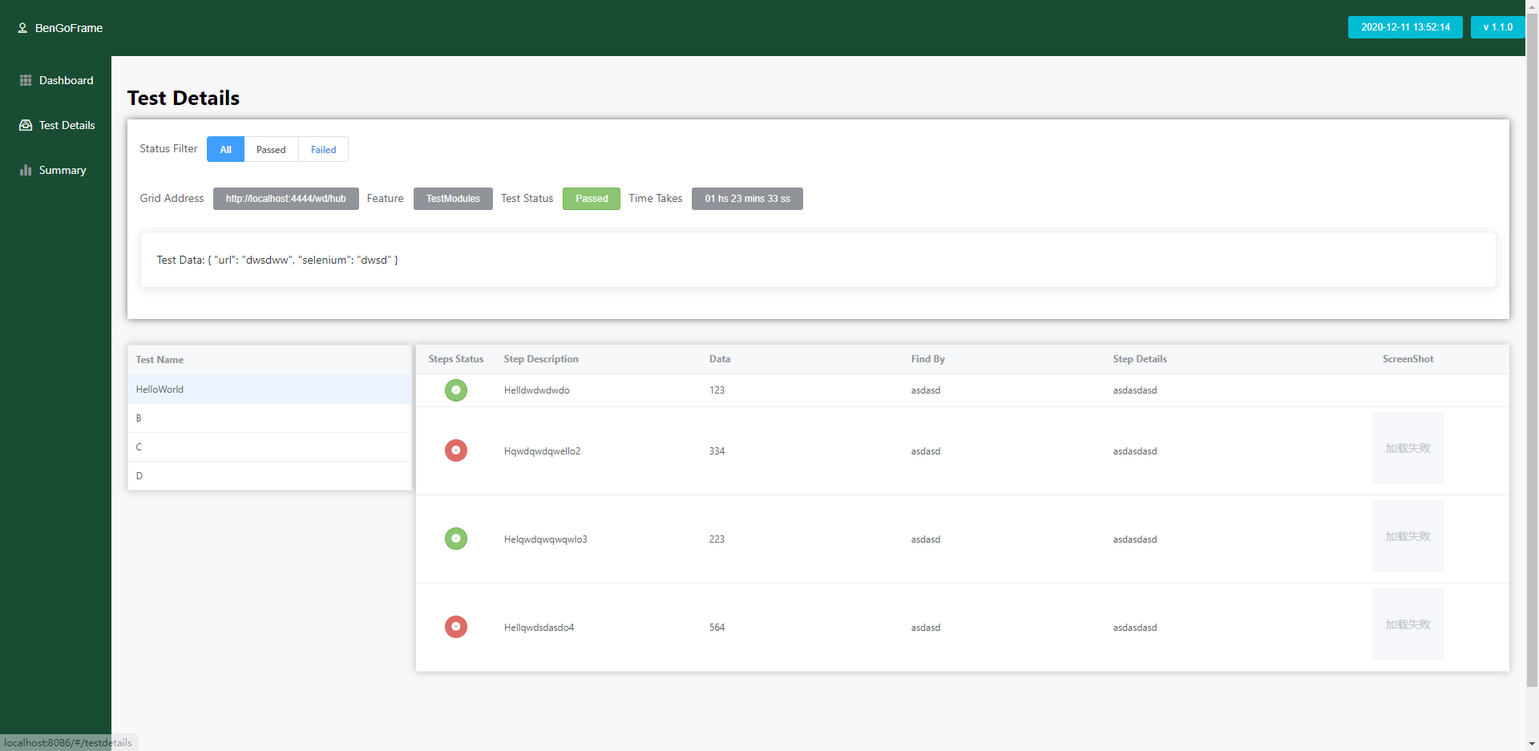
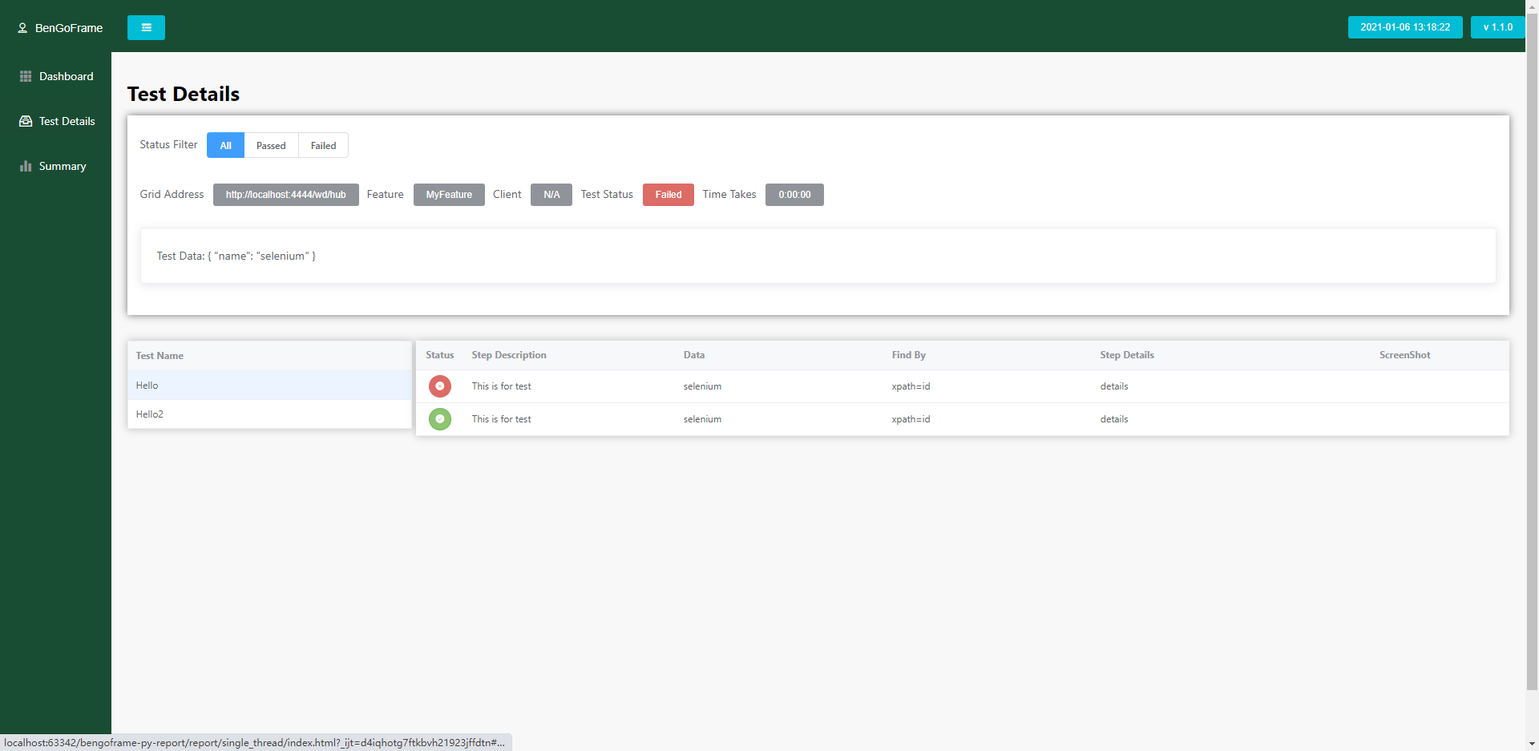
优化header，为api details table增加伸缩功能

diff --git a/src/template/static/js/app.20a00e79.js b/src/template/static/js/app.20a00e79.js
@@ -1,0 +1,1 @@
+(function(t){function e(e){for(var s,i,n=e[0],o=e[1],c=e[2],d=0,f=[];d<n.length;d++)i=n[d],Object.prototype.hasOwnProperty.call(l,i)&&l[i]&&f.push(l[i][0]),l[i]=0;for(s in o)Object.prototype.hasOwnProperty.call(o,s)&&(t[s]=o[s]);u&&u(e);while(f.length)f.shift()();return r.push.apply(r,c||[]),a()}function a(){for(var t,e=0;e<r.length;e++){for(var a=r[e],s=!0,n=1;n<a.length;n++){var o=a[n];0!==l[o]&&(s=!1)}s&&(r.splice(e--,1),t=i(i.s=a[0]))}return t}var s={},l={app:0},r=[];function i(e){if(s[e])return s[e].exports;var a=s[e]={i:e,l:!1,exports:{}};return t[e].call(a.exports,a,a.exports,i),a.l=!0,a.exports}i.m=t,i.c=s,i.d=function(t,e,a){i.o(t,e)||Object.defineProperty(t,e,{enumerable:!0,get:a})},i.r=function(t){"undefined"!==typeof Symbol&&Symbol.toStringTag&&Object.defineProperty(t,Symbol.toStringTag,{value:"Module"}),Object.defineProperty(t,"__esModule",{value:!0})},i.t=function(t,e){if(1&e&&(t=i(t)),8&e)return t;if(4&e&&"object"===typeof t&&t&&t.__esModule)return t;var a=Object.create(null);if(i.r(a),Object.defineProperty(a,"default",{enumerable:!0,value:t}),2&e&&"string"!=typeof t)for(var s in t)i.d(a,s,function(e){return t[e]}.bind(null,s));return a},i.n=function(t){var e=t&&t.__esModule?function(){return t["default"]}:function(){return t};return i.d(e,"a",e),e},i.o=function(t,e){return Object.prototype.hasOwnProperty.call(t,e)},i.p="";var n=window["webpackJsonp"]=window["webpackJsonp"]||[],o=n.push.bind(n);n.push=e,n=n.slice();for(var c=0;c<n.length;c++)e(n[c]);var u=o;r.push([0,"chunk-vendors"]),a()})({0:function(t,e,a){t.exports=a("56d7")},"0220":function(t,e,a){"use strict";a("6d76")},"09b1b":function(t,e,a){"use strict";a("24a7")},"09e0":function(t,e,a){},"24a7":function(t,e,a){},"2a8b":function(t,e,a){"use strict";a("5498")},"2b56":function(t,e,a){"use strict";a("09e0")},"50fd":function(t,e,a){},5498:function(t,e,a){},"56d7":function(t,e,a){"use strict";a.r(e);a("e260"),a("e6cf"),a("cca6"),a("a79d");var s=a("2b0e"),l=function(){var t=this,e=t.$createElement,a=t._self._c||e;return a("div",{attrs:{id:"app"}},[a("router-view")],1)},r=[],i={},n=i,o=a("2877"),c=Object(o["a"])(n,l,r,!1,null,null,null),u=c.exports,d=(a("d3b7"),a("8c4f")),f=function(){var t=this,e=t.$createElement,a=t._self._c||e;return a("div",{staticClass:"main-container"},[a("header",[a("TopMenu",{on:{changeAside:t.setIcon}})],1),a("el-container",{staticClass:"main-app"},[a("el-aside",{attrs:{width:"150px;"}},[a("el-menu",{staticClass:"el-menu-vertical",attrs:{"default-active":t.activeIndex,"background-color":"#194d33","text-color":"#fff","active-text-color":"#fff"}},[a("router-link",{attrs:{to:"/"}},[a("el-menu-item",{attrs:{index:"1"}},[a("i",{staticClass:"el-icon-s-grid"}),a("span",{directives:[{name:"show",rawName:"v-show",value:t.isShow,expression:"isShow"}],attrs:{slot:"title"},slot:"title"},[t._v("Dashboard")])])],1),t.isApi?a("router-link",{attrs:{to:"apitestdetails"}},[a("el-menu-item",{attrs:{index:"2"}},[a("i",{staticClass:"el-icon-receiving"}),a("span",{directives:[{name:"show",rawName:"v-show",value:t.isShow,expression:"isShow"}],attrs:{slot:"title"},slot:"title"},[t._v("API Details")])])],1):a("router-link",{attrs:{to:"testdetails"}},[a("el-menu-item",{attrs:{index:"2"}},[a("i",{staticClass:"el-icon-receiving"}),a("span",{directives:[{name:"show",rawName:"v-show",value:t.isShow,expression:"isShow"}],attrs:{slot:"title"},slot:"title"},[t._v("Test Details")])])],1),a("router-link",{attrs:{to:"/summary"}},[a("el-menu-item",{attrs:{index:"3"}},[a("i",{staticClass:"el-icon-s-data"}),a("span",{directives:[{name:"show",rawName:"v-show",value:t.isShow,expression:"isShow"}],attrs:{slot:"title"},slot:"title"},[t._v("Summary")])])],1)],1)],1),a("el-main",{staticClass:"main-details"},[a("router-view",{key:t.key})],1)],1)],1)},h=[],p=(a("c975"),function(){var t=this,e=t.$createElement,a=t._self._c||e;return a("div",{staticClass:"top-menu"},[a("el-button",{staticClass:"iconBtn",attrs:{id:"iconBtn1",icon:"el-icon-coordinate",type:"info"},on:{click:function(e){return t.onHome(e)}}},[t._v(" BenGoFrame")]),a("el-button",{staticClass:"openBtn",attrs:{type:"info",size:"mini",icon:t.openBtn,id:"openBtn1"},on:{click:function(e){return t.onSwitch("openBtn1")}}}),a("el-button",{staticClass:"timeBtn",attrs:{id:"timeBtn1",type:"info",size:"mini"},on:{click:function(e){return t.onBlurBtn("timeBtn1")}}},[t._v("v 1.1.0")]),a("el-button",{staticClass:"versionBtn",attrs:{id:"versionBtn1",type:"info",size:"mini"},on:{click:function(e){return t.onBlurBtn("versionBtn1")}}},[t._v(t._s(t.date))])],1)}),b=[],m=(a("b0c0"),a("ac1f"),a("5319"),{name:"TopMenu",data:function(){return{date:"",openBtn:"el-icon-s-fold"}},methods:{cuurent_date:function(){var t=(new Date).toISOString().replace(/T/," ").replace(/\..+/,"");this.date=t},onHome:function(t){this.onBlurBtn("iconBtn1"),"DashBoard"!==this.$route.name&&this.$router.push({name:"DashBoard"})},onBlurBtn:function(t){document.getElementById(t).blur()},onSwitch:function(t){this.onBlurBtn(t),"el-icon-s-fold"===this.openBtn?(this.$emit("changeAside","close"),this.openBtn="el-icon-s-unfold"):(this.$emit("changeAside","open"),this.openBtn="el-icon-s-fold")}},created:function(){this.cuurent_date()}}),C=m,v=(a("0220"),Object(o["a"])(C,p,b,!1,null,null,null)),g=v.exports,y=a("7277"),S=a("7397"),w=a("ad13"),T=a("8d0f"),_={name:"TestReport",components:{TopMenu:g,Dashboard:y["default"],TestDetails:S["default"],Summary:w["default"],ApiTestDetails:T["default"]},created:function(){this.setActiveAside(),this.testAll=this.$testData;var t=this.testAll["testDetails"][0]["client"];"api"===t.toLowerCase()&&(this.isApi=!0)},methods:{setActiveAside:function(){var t=this.key;-1!=t.indexOf("dashboard")?this.activeIndex="1":-1!=t.indexOf("testdetails")?this.activeIndex="2":this.activeIndex},setIcon:function(t){this.isShow="close"!==t}},computed:{key:function(){return this.$route.fullPath}},data:function(){return{activeIndex:"1",isApi:!1,testAll:{},isShow:!0}}},D=_,N=(a("b3a7"),Object(o["a"])(D,f,h,!1,null,null,null)),A=N.exports;s["default"].use(d["a"]);var k=[{path:"/",name:"TestReport",redirect:"/dashboard",component:A,children:[{path:"dashboard",name:"DashBoard",component:function(){return Promise.resolve().then(a.bind(null,"7277"))}},{path:"testdetails",name:"TestDetails",component:function(){return Promise.resolve().then(a.bind(null,"7397"))}},{path:"apitestdetails",name:"ApiTestDetails",component:function(){return Promise.resolve().then(a.bind(null,"8d0f"))}},{path:"summary",name:"Summary",component:function(){return Promise.resolve().then(a.bind(null,"ad13"))}}]}],x=new d["a"]({mode:"hash",base:"",routes:k}),B=x,z=a("5c96"),R=a.n(z);a("0fae");s["default"].config.productionTip=!1;var P=window.testData;s["default"].prototype.$testData=P,s["default"].use(R.a),new s["default"]({router:B,render:function(t){return t(u)}}).$mount("#app")},"6d76":function(t,e,a){},7277:function(t,e,a){"use strict";a.r(e);var s=function(){var t=this,e=t.$createElement,a=t._self._c||e;return a("div",{staticClass:"dashboard"},[a("h5",[t._v("Dashboard")]),a("el-row",{staticClass:"reportChart",attrs:{gutter:10}},[a("el-col",{attrs:{span:12}},[a("div",{staticClass:"wrapper"},[a("el-form",{attrs:{inline:!0,"label-position":"left"},nativeOn:{submit:function(t){t.preventDefault()}}},[a("el-form-item",[a("el-button",{attrs:{type:"info",size:"mini"}},[t._v("Total Cases: "+t._s(t.totalCases))]),a("el-button",{staticStyle:{background:"#63af3eba",color:"#fff","border-color":"#63af3eba"},attrs:{size:"mini"}},[t._v("Passed: "+t._s(t.totalPassed))]),a("el-button",{staticStyle:{background:"#dd6b66",color:"#fff","border-color":"#dd6b66"},attrs:{size:"mini"}},[t._v("Failed: "+t._s(t.totalFailed))])],1),a("ReportChart",{ref:"reportChart"})],1)],1)]),a("el-col",{staticClass:"stepsReportChart",attrs:{span:12}},[a("div",{staticClass:"wrapper"},[a("el-form",{attrs:{inline:!0,"label-position":"left"},nativeOn:{submit:function(t){t.preventDefault()}}},[a("el-form-item",[a("el-button",{attrs:{type:"info",size:"mini"}},[t._v("Total Steps: "+t._s(t.totalSteps))]),a("el-button",{staticStyle:{background:"#63af3eba",color:"#fff","border-color":"#63af3eba"},attrs:{size:"mini"}},[t._v("Passed: "+t._s(t.totalStepsPassed))]),a("el-button",{staticStyle:{background:"#dd6b66",color:"#fff","border-color":"#dd6b66"},attrs:{size:"mini"}},[t._v("Failed: "+t._s(t.totalStepsFailed))])],1),a("StepReportChart",{ref:"stepReportChart"})],1)],1)])],1),a("el-row",[a("el-col",{staticClass:"runConfig",attrs:{span:24}},[a("el-table",{staticClass:"allTable",attrs:{data:t.config,border:"","header-cell-style":{background:"rgba(234,238,241,.41)","line-height":"20px"},size:"mini"}},[a("el-table-column",{attrs:{label:"Test Suite",prop:"testSuite"}}),a("el-table-column",{attrs:{label:"Grid Address",prop:"gridAddress"}}),a("el-table-column",{attrs:{label:"Log Level",prop:"logLevel"}}),a("el-table-column",{attrs:{label:"Thread Count",prop:"threadCount"}}),a("el-table-column",{attrs:{label:"Database",prop:"database"}}),a("el-table-column",{attrs:{label:"Start Time",prop:"startTime"}}),a("el-table-column",{attrs:{label:"End Time",prop:"endTime"}}),a("el-table-column",{attrs:{label:"Time Takes",prop:"takeTimes"}}),a("el-table-column",{attrs:{label:"ReRun",prop:"reRun",width:"70",align:"center"}})],1)],1)],1),a("el-row",[a("el-col",{staticClass:"featureSummary",attrs:{span:24}},[a("el-table",{staticClass:"allTable",attrs:{data:t.featureSummary,border:"",size:"mini","header-cell-style":{background:"rgba(234,238,241,.41)","line-height":"20px"}}},[a("el-table-column",{attrs:{label:"Feature Name",prop:"featureName"}}),a("el-table-column",{attrs:{label:"Total",prop:"total"}}),a("el-table-column",{attrs:{label:"Passed",prop:"passed"}}),a("el-table-column",{attrs:{label:"Failed",prop:"failed"}}),a("el-table-column",{attrs:{label:"Pass Rate",prop:"passRate"}})],1)],1)],1)],1)},l=[],r=(a("4ec9"),a("d3b7"),a("3ca3"),a("ddb0"),a("2909")),i=a("b85c"),n=function(){var t=this,e=t.$createElement,a=t._self._c||e;return a("div",{class:t.className,style:{height:t.height,width:t.width}})},o=[],c=a("313e"),u=a.n(c);a("817d");var d={name:"ReportChart",props:{className:{type:String,default:"chart"},width:{type:String,default:"100%"},height:{type:String,default:"325px"}},data:function(){return{chart:null,totalCase:"0",passedCount:0,failedCount:0}},mounted:function(){var t=this;this.initChart(),window.addEventListener("resize",(function(){t.chart.resize()}))},methods:{initChart:function(){this.chart=u.a.init(this.$el,"macarons"),this.chart.setOption({label:{},tooltip:{trigger:"item",showDelay:0,formatter:"{a} <br/>{b} : {c} ({d}%)"},legend:{left:"center",bottom:"5",data:["Passed","Failed"]},calculable:!0,series:[{label:{normal:{show:!1}},color:["#63af3eba","#dd6b66"],name:"Tests Passed Rate",type:"pie",data:[{value:this.passedCount,name:"Passed"},{value:this.failedCount,name:"Failed"}],animationEasing:"cubicInOut",animationDuration:2600}]})},setChart:function(t,e,a){this.chart.clear(),this.totalCase=t,this.passedCount=e,this.failedCount=a,this.initChart()}}},f=d,h=(a("ac98"),a("2877")),p=Object(h["a"])(f,n,o,!1,null,null,null),b=p.exports,m=function(){var t=this,e=t.$createElement,a=t._self._c||e;return a("div",{class:t.className,style:{height:t.height,width:t.width}})},C=[];a("817d");var v={name:"StepsReportChart",props:{className:{type:String,default:"chart"},width:{type:String,default:"100%"},height:{type:String,default:"325px"}},data:function(){return{chart:null,totalCase:"0",passedCount:0,failedCount:0}},mounted:function(){var t=this;this.initChart(),window.addEventListener("resize",(function(){t.chart.resize()}))},methods:{initChart:function(){this.chart=u.a.init(this.$el,"macarons"),this.chart.setOption({label:{},tooltip:{trigger:"item",formatter:"{a} <br/>{b} : {c} ({d}%)"},legend:{left:"center",bottom:"5",data:["Passed","Failed"]},calculable:!0,series:[{label:{normal:{show:!1}},color:["#63af3eba","#dd6b66"],name:"Steps Passed Rate",type:"pie",data:[{value:this.passedCount,name:"Passed"},{value:this.failedCount,name:"Failed"}],animationEasing:"cubicInOut",animationDuration:2600}]})},setChart:function(t,e,a){this.chart.clear(),this.totalCase=t,this.passedCount=e,this.failedCount=a,this.initChart()}}},g=v,y=(a("2a8b"),Object(h["a"])(g,m,C,!1,null,null,null)),S=y.exports,w={name:"Dashboard",components:{ReportChart:b,StepReportChart:S},data:function(){return{testAll:{},config:[],featureSummary:[],totalCases:"0",totalPassed:"0",totalFailed:"0",totalSteps:"0",totalStepsPassed:"0",totalStepsFailed:"0"}},mounted:function(){this.testAll=this.$testData,this.initTestData()},methods:{setCharts:function(){this.$refs.reportChart.setChart(this.totalCases,this.totalPassed,this.totalFailed),this.$refs.stepReportChart.setChart(this.totalSteps,this.totalStepsPassed,this.totalStepsFailed)},initTestData:function(){this.config=[this.testAll["testConfig"]],this.totalCases=this.testAll["casesChart"]["totalCases"],this.totalPassed=this.testAll["casesChart"]["passed"],this.totalFailed=this.testAll["casesChart"]["failed"],this.totalSteps=this.testAll["stepsChart"]["totalSteps"],this.totalStepsPassed=this.testAll["stepsChart"]["passed"],this.totalStepsFailed=this.testAll["stepsChart"]["failed"],this.featureSummary=this.testAll["featureSummary"];var t,e=new Map,a=Object(i["a"])(this.featureSummary);try{for(a.s();!(t=a.n()).done;){var s=t.value,l=s.featureName;e.has(l)||e.set(l,s)}}catch(n){a.e(n)}finally{a.f()}this.featureSummary=Object(r["a"])(e.values()),this.setCharts()}}},T=w,_=(a("2b56"),Object(h["a"])(T,s,l,!1,null,null,null));e["default"]=_.exports},7397:function(t,e,a){"use strict";a.r(e);var s=function(){var t=this,e=t.$createElement,a=t._self._c||e;return a("div",{staticClass:"testDetails"},[a("h5",[t._v("Test Details")]),a("el-row",[a("el-col",{attrs:{span:24}},[a("div",{staticClass:"wrapper"},[a("el-form",{staticClass:"status",attrs:{inline:!0}},[a("el-form-item",{attrs:{label:"Status Filter"}},[a("el-radio-group",{attrs:{size:"small",fill:t.fill()},model:{value:t.radio,callback:function(e){t.radio=e},expression:"radio"}},[a("el-radio-button",{attrs:{label:"all"}},[t._v("All")]),a("el-radio-button",{attrs:{label:"passed"}},[t._v("Passed")]),a("el-radio-button",{attrs:{label:"failed"}},[t._v("Failed")])],1)],1)],1),t.caseNames.length>0?a("el-form",{staticClass:"testConfig",attrs:{inline:!0}},[a("el-form-item",{attrs:{label:"Grid Address"}},[a("el-button",{attrs:{type:"info",size:"mini"}},[t._v(t._s(t.config["gridAddress"]))])],1),a("el-form-item",{attrs:{label:"Feature"}},[a("el-button",{attrs:{type:"info",size:"mini"}},[t._v(t._s(t.currentCase["featureName"]))])],1),a("el-form-item",{attrs:{label:"Client"}},[a("el-button",{attrs:{type:"info",size:"mini"}},[t._v(t._s(t.currentCase["client"]))])],1),a("el-form-item",{attrs:{label:"Test Status"}},["passed"===t.currentCase.status?a("el-button",{staticStyle:{background:"#63af3eba",color:"#fff","border-color":"#63af3eba"},attrs:{size:"mini"}},[t._v(t._s(t.toTitle(t.currentCase["status"])))]):a("el-button",{staticStyle:{background:"#dd6b66",color:"#fff","border-color":"#dd6b66"},attrs:{size:"mini"}},[t._v(t._s(t.toTitle(t.currentCase["status"])))])],1),a("el-form-item",{attrs:{label:"Time Takes"}},[a("el-button",{attrs:{type:"info",size:"mini"}},[t._v(t._s(t.currentCase["timeTakes"]))])],1)],1):t._e(),t.caseNames.length>0?a("el-form",{staticClass:"testData",attrs:{size:"mini"}},[a("el-form-item",[a("el-card",[a("span",{staticStyle:{"font-size":"14px",color:"#606266"}},[t._v("Test Data: ")]),a("span",{staticStyle:{"font-size":"14px",color:"#606266"}},[t._v(t._s(t.currentCase["datas"]))])])],1)],1):t._e(),a("br")],1)])],1),a("el-row",{staticClass:"details-table",attrs:{gutter:5}},[a("el-col",{attrs:{span:5}},[a("el-table",{ref:"testTable",staticClass:"change",attrs:{data:t.caseNames,size:"mini",border:"","highlight-current-row":"","header-cell-style":{background:"rgba(234,238,241,.41)","line-height":"20px"}},on:{"current-change":t.handleCurrentChange}},[a("el-table-column",{attrs:{label:"Test Name",prop:"testName"}})],1)],1),a("el-col",{attrs:{span:19}},[a("el-table",{staticClass:"change",attrs:{data:t.currentSteps,size:"mini","header-cell-style":{background:"rgba(234,238,241,.41)","line-height":"20px"}}},[a("el-table-column",{attrs:{label:"Status",align:"center",width:"60"},scopedSlots:t._u([{key:"default",fn:function(t){return["passed"===t.row.stepStatus?a("el-button",{staticStyle:{background:"#63af3eba",color:"#fff","border-color":"#63af3eba"},attrs:{size:"mini",circle:"",icon:"el-icon-success"}}):a("el-button",{staticStyle:{background:"#dd6b66",color:"#fff","border-color":"#dd6b66"},attrs:{size:"mini",circle:"",icon:"el-icon-error"}})]}}])}),a("el-table-column",{attrs:{label:"Step Description",prop:"stepDescription"}}),a("el-table-column",{attrs:{label:"Data",prop:"data"}}),a("el-table-column",{attrs:{label:"Find By",prop:"findBy"}}),a("el-table-column",{attrs:{label:"Step Details",prop:"stepDetails"}}),a("el-table-column",{attrs:{label:"ScreenShot",prop:"screenShot",align:"center"},scopedSlots:t._u([{key:"default",fn:function(e){return[e.row.screenShot?a("el-image",{staticClass:"screenshot-test",staticStyle:{width:"90px",height:"90px"},attrs:{src:t.buildImage(e.row.screenShot),"preview-src-list":[t.buildImage(e.row.screenShot)]}}):a("span",{staticClass:"none-screenshot"})]}}])})],1)],1)],1)],1)},l=[],r=(a("4de4"),a("d81d"),a("fb6a"),{name:"TestDetails",data:function(){return{caseNames:[],currentSteps:[],radio:"all",currentRow:null,testAll:{},config:{},currentCase:{},testDetailsAll:[]}},created:function(){this.testAll=this.$testData,this.config=this.testAll["testConfig"],this.testDetailsAll=this.testAll["testDetails"],this.initTestDetails(this.testDetailsAll)},methods:{fill:function(){return"passed"===this.radio?"#63af3eba":"failed"===this.radio?"#dd6b66":void 0},toTitle:function(t){if(t)return t=t.charAt(0).toUpperCase()+t.slice(1),t},initTestDetails:function(t){this.caseNames=t.map((function(t){return{testName:t["testName"]}}));var e=this.caseNames[0]["testName"];this.setCurrentTestByName(e)},buildImage:function(t){return"static/img/"+t},setCurrentTestByName:function(t){var e=this.testDetailsAll.filter((function(e){var a=e["testName"];if(a==t)return e}));this.currentCase=e[0],this.currentSteps=this.currentCase["steps"]},setCurrentTestByStatus:function(t){var e=this.testDetailsAll.filter((function(e){var a=e["status"];if(t==a)return e}));e.length>0?this.initTestDetails(e):(this.caseNames=[],this.currentCase=[],this.currentSteps=[])},handleCurrentChange:function(t){t?(this.currentRow=t,this.setCurrentRow(t)):this.$refs.testTable.setCurrentRow(this.caseNames[0])},setCurrentRow:function(t){this.setCurrentTestByName(t["testName"]),this.$refs.testTable.setCurrentRow(t)}},mounted:function(){this.$refs.testTable.setCurrentRow(this.caseNames[0])},watch:{radio:function(t){"passed"===t?this.setCurrentTestByStatus("passed"):"failed"===t?this.setCurrentTestByStatus("failed"):this.initTestDetails(this.testDetailsAll)}}}),i=r,n=(a("d565"),a("2877")),o=Object(n["a"])(i,s,l,!1,null,null,null);e["default"]=o.exports},"8d0f":function(t,e,a){"use strict";a.r(e);var s=function(){var t=this,e=t.$createElement,a=t._self._c||e;return a("div",{staticClass:"ApiTestDetails"},[a("h5",[t._v("API Test Details")]),a("el-row",[a("el-col",{attrs:{span:24}},[a("div",{staticClass:"wrapper"},[a("el-form",{staticClass:"status",attrs:{inline:!0}},[a("el-form-item",{attrs:{label:"Status Filter"}},[a("el-radio-group",{attrs:{size:"small",fill:t.fill()},model:{value:t.radio,callback:function(e){t.radio=e},expression:"radio"}},[a("el-radio-button",{attrs:{label:"all"}},[t._v("All")]),a("el-radio-button",{attrs:{label:"passed"}},[t._v("Passed")]),a("el-radio-button",{attrs:{label:"failed"}},[t._v("Failed")])],1)],1)],1),t.caseNames.length>0?a("el-form",{staticClass:"testConfig",attrs:{inline:!0}},[a("el-form-item",{attrs:{label:"Feature"}},[a("el-button",{attrs:{type:"info",size:"mini"}},[t._v(t._s(t.currentCase["featureName"]))])],1),a("el-form-item",{attrs:{label:"Client"}},[a("el-button",{attrs:{type:"info",size:"mini"}},[t._v(t._s(t.currentCase["client"].toUpperCase()))])],1),a("el-form-item",{attrs:{label:"Test Status"}},["passed"===t.currentCase.status?a("el-button",{staticStyle:{background:"#63af3eba",color:"#fff","border-color":"#63af3eba"},attrs:{size:"mini"}},[t._v(t._s(t.toTitle(t.currentCase["status"])))]):a("el-button",{staticStyle:{background:"#dd6b66",color:"#fff","border-color":"#dd6b66"},attrs:{size:"mini"}},[t._v(t._s(t.toTitle(t.currentCase["status"])))])],1),a("el-form-item",{attrs:{label:"Time Takes"}},[a("el-button",{attrs:{type:"info",size:"mini"}},[t._v(t._s(t.currentCase["timeTakes"]))])],1)],1):t._e(),t.caseNames.length>0?a("el-form",{staticClass:"testData",attrs:{size:"mini"}},[a("el-form-item",[a("el-card",[a("span",{staticStyle:{"font-size":"14px",color:"#606266"}},[t._v("Test Data: ")]),a("span",{staticStyle:{"font-size":"14px",color:"#606266"}},[t._v(t._s(t.currentCase["datas"]))])])],1)],1):t._e(),t.caseNames.length>0?a("el-table",{staticClass:"fixStyle",attrs:{data:t.requestDetails,border:"","header-cell-style":{background:"rgba(234,238,241,.41)"},size:"mini"}},[a("el-table-column",{attrs:{type:"expand"},scopedSlots:t._u([{key:"default",fn:function(e){return[a("el-table",{staticClass:"fixStyle",attrs:{data:t.reList(e.row),size:"mini",border:"","header-cell-style":{background:"rgba(234,238,241,.41)"}}},[a("el-table-column",{attrs:{label:"Request Body",prop:"body"}}),a("el-table-column",{attrs:{label:"Request Header",prop:"header"}}),a("el-table-column",{attrs:{label:"Response Header",prop:"responseHeader"}}),a("el-table-column",{attrs:{label:"Response Body",prop:"responseBody"}})],1)]}}],null,!1,3198013413)}),a("el-table-column",{attrs:{label:"Method",width:"80",prop:"method",align:"center"}}),a("el-table-column",{attrs:{label:"Request Url",prop:"url"}}),a("el-table-column",{attrs:{label:"Response Status Code",prop:"statusCode",width:"250",align:"center"}})],1):t._e(),a("br")],1)])],1),a("el-row",{staticClass:"details-table",attrs:{gutter:5}},[a("el-col",{attrs:{span:5}},[a("el-table",{ref:"apiTestTable",staticClass:"change",attrs:{data:t.caseNames,size:"mini",border:"","highlight-current-row":"","header-cell-style":{background:"rgba(234,238,241,.41)","line-height":"20px"}},on:{"current-change":t.handleCurrentChange}},[a("el-table-column",{attrs:{label:"Test Name",prop:"testName"}})],1)],1),a("el-col",{attrs:{span:19}},[a("el-table",{staticClass:"change",attrs:{data:t.currentSteps,size:"mini","header-cell-style":{background:"rgba(234,238,241,.41)","line-height":"20px"}}},[a("el-table-column",{attrs:{label:"Status",align:"center",width:"60"},scopedSlots:t._u([{key:"default",fn:function(t){return["passed"===t.row.stepStatus?a("el-button",{staticStyle:{background:"#63af3eba",color:"#fff","border-color":"#63af3eba"},attrs:{size:"mini",circle:"",icon:"el-icon-success"}}):a("el-button",{staticStyle:{background:"#dd6b66",color:"#fff","border-color":"#dd6b66"},attrs:{size:"mini",circle:"",icon:"el-icon-error"}})]}}])}),a("el-table-column",{attrs:{label:"Step Description",prop:"stepDescription"}}),a("el-table-column",{attrs:{label:"Data",prop:"data"}}),a("el-table-column",{attrs:{label:"Step Details",prop:"stepDetails"}})],1)],1)],1)],1)},l=[],r=(a("4de4"),a("d81d"),a("fb6a"),{name:"ApiTestDetails",data:function(){return{caseNames:[],currentSteps:[],radio:"all",currentRow:null,testAll:{},currentCase:{},testDetailsAll:[],requestDetails:[]}},created:function(){this.testAll=this.$testData,this.testDetailsAll=this.testAll["testDetails"],this.initTestDetails(this.testDetailsAll)},methods:{reList:function(t){return[t]},fill:function(){return"passed"===this.radio?"#63af3eba":"failed"===this.radio?"#dd6b66":void 0},toTitle:function(t){if(t)return t=t.charAt(0).toUpperCase()+t.slice(1),t},initTestDetails:function(t){this.caseNames=t.map((function(t){return{testName:t["testName"]}}));var e=this.caseNames[0]["testName"];this.setCurrentTestByName(e)},setCurrentTestByName:function(t){var e=this.testDetailsAll.filter((function(e){var a=e["testName"];if(a==t)return e}));this.currentCase=e[0],this.requestDetails=e[0]["details"],this.currentSteps=this.currentCase["steps"]},setCurrentTestByStatus:function(t){var e=this.testDetailsAll.filter((function(e){var a=e["status"];if(t==a)return e}));e.length>0?this.initTestDetails(e):(this.caseNames=[],this.currentCase=[],this.currentSteps=[])},handleCurrentChange:function(t){t?(this.currentRow=t,this.setCurrentRow(t)):this.$refs.apiTestTable.setCurrentRow(this.caseNames[0])},setCurrentRow:function(t){this.setCurrentTestByName(t["testName"]),this.$refs.apiTestTable.setCurrentRow(t)}},mounted:function(){this.$refs.apiTestTable.setCurrentRow(this.caseNames[0])},watch:{radio:function(t){"passed"===t?this.setCurrentTestByStatus("passed"):"failed"===t?this.setCurrentTestByStatus("failed"):this.initTestDetails(this.testDetailsAll)}}}),i=r,n=(a("09b1b"),a("2877")),o=Object(n["a"])(i,s,l,!1,null,null,null);e["default"]=o.exports},aa10:function(t,e,a){},ac98:function(t,e,a){"use strict";a("50fd")},ad13:function(t,e,a){"use strict";a.r(e);var s=function(){var t=this,e=t.$createElement,a=t._self._c||e;return a("div",{staticClass:"Summary"},[a("h5",[t._v("Summary")]),a("el-row",{attrs:{gutter:10}},[a("el-col",{attrs:{span:5}},[a("el-table",{ref:"feTable",staticClass:"allTable",attrs:{data:t.featuresTable,size:"mini",border:"","highlight-current-row":"","header-cell-style":{background:"rgba(234,238,241,.41)","line-height":"20px"}},on:{"current-change":t.handleCurrentChange}},[a("el-table-column",{attrs:{label:"Feature Name",prop:"featureName"}})],1)],1),a("el-col",{attrs:{span:19}},[a("el-table",{staticClass:"allTable",attrs:{data:t.selectedCaseTable,size:"mini","header-cell-style":{background:"rgba(234,238,241,.41)","line-height":"20px"}}},[a("el-table-column",{attrs:{label:"Status",align:"center",width:"100"},scopedSlots:t._u([{key:"default",fn:function(t){return["passed"===t.row.status?a("el-button",{staticStyle:{background:"#63af3eba",color:"#fff","border-color":"#63af3eba"},attrs:{size:"mini",circle:"",icon:"el-icon-success"}}):a("el-button",{staticStyle:{background:"#dd6b66",color:"#fff","border-color":"#dd6b66"},attrs:{size:"mini",circle:"",icon:"el-icon-error"}})]}}])}),a("el-table-column",{attrs:{label:"Test Name",prop:"testName"}}),a("el-table-column",{attrs:{label:"Time Takes",width:"200",prop:"timeTakes"}})],1)],1)],1)],1)},l=[],r=(a("4de4"),a("d81d"),a("4ec9"),a("d3b7"),a("3ca3"),a("ddb0"),a("2909")),i=a("b85c"),n={name:"Summary",data:function(){return{featuresTable:[],selectedCaseTable:[],testAll:{},testDetailsAll:[],currentRow:null}},mounted:function(){this.testAll=this.$testData,this.testDetailsAll=this.testAll["testDetails"],this.initSummaryTable(this.testDetailsAll),this.$refs.feTable.setCurrentRow(this.featuresTable[0])},methods:{initSummaryTable:function(t){var e,a=new Map,s=Object(i["a"])(t);try{for(s.s();!(e=s.n()).done;){var l=e.value,n=l.featureName;a.has(n)||a.set(n,l)}}catch(u){s.e(u)}finally{s.f()}var o=Object(r["a"])(a.keys());this.featuresTable=o.map((function(t){return{featureName:t}}));var c=this.featuresTable[0]["featureName"];this.setCurrentFeatureByName(c)},setCurrentFeatureByName:function(t){var e=this.testDetailsAll.filter((function(e){var a=e["featureName"];if(a==t)return e}));this.selectedCaseTable=e},handleCurrentChange:function(t){t?(this.currentRow=t,this.setCurrentRow(t)):this.$refs.feTable.setCurrentRow(this.featuresTable[0])},setCurrentRow:function(t){this.setCurrentFeatureByName(t["featureName"]),this.$refs.feTable.setCurrentRow(t)}}},o=n,c=a("2877"),u=Object(c["a"])(o,s,l,!1,null,null,null);e["default"]=u.exports},b3a7:function(t,e,a){"use strict";a("c58d")},c58d:function(t,e,a){},d565:function(t,e,a){"use strict";a("aa10")}});

diff --git a/src/template/index.html b/src/template/index.html
@@ -1,11 +1,21 @@
-<!DOCTYPE html><html lang=en><head><meta charset=utf-8><meta http-equiv=X-UA-Compatible content="IE=edge"><meta name=viewport content="width=device-width,initial-scale=1"><link rel=icon href=favicon.ico><title>BenGoFrame Report</title><style>body {
+<!DOCTYPE html>
+<html lang=en>
+<head>
+    <meta charset=utf-8>
+    <meta http-equiv=X-UA-Compatible content="IE=edge">
+    <meta name=viewport content="width=device-width,initial-scale=1">
+    <link rel=icon href=favicon.ico>
+    <title>BenGoFrame Report</title>
+    <style>body {
         margin: 0px;
         padding: 0px;
         font-family: -apple-system, BlinkMacSystemFont,
           "Segoe UI", "Roboto", "Oxygen", "Ubuntu",
           "Cantarell", "Fira Sans", "Droid Sans",
           "Helvetica Neue", sans-serif;
-      }</style><script>var testData = {
+      }
+    </style>
+    <script>var testData = {
         testConfig: {
           testSuite: "Ben",
           gridAddress: "http://localhost:4444/wd/hub",
@@ -237,4 +247,20 @@
             ],
           },
         ],
-      };</script><link href=static/css/app.defc74b1.css rel=preload as=style><link href=static/css/chunk-vendors.68c70ad5.css rel=preload as=style><link href=static/js/app.a355b5e5.js rel=preload as=script><link href=static/js/chunk-vendors.571a31db.js rel=preload as=script><link href=static/css/chunk-vendors.68c70ad5.css rel=stylesheet><link href=static/css/app.defc74b1.css rel=stylesheet></head><body><noscript><strong>We're sorry but py-report doesn't work properly without JavaScript enabled. Please enable it to continue.</strong></noscript><div id=app></div><script src=static/js/chunk-vendors.571a31db.js></script><script src=static/js/app.a355b5e5.js></script></body></html>
+      };
+    </script>
+    <link href=static/css/app.33d8cdfb.css rel=preload as=style>
+    <link href=static/css/chunk-vendors.68c70ad5.css rel=preload as=style>
+    <link href=static/js/app.20a00e79.js rel=preload as=script>
+    <link href=static/js/chunk-vendors.571a31db.js rel=preload as=script>
+    <link href=static/css/chunk-vendors.68c70ad5.css rel=stylesheet>
+    <link href=static/css/app.33d8cdfb.css rel=stylesheet>
+</head>
+<body>
+<noscript><strong>We're sorry but py-report doesn't work properly without JavaScript
+    enabled. Please enable it to continue.</strong></noscript>
+<div id=app></div>
+<script src=static/js/chunk-vendors.571a31db.js></script>
+<script src=static/js/app.20a00e79.js></script>
+</body>
+</html>

diff --git a/src/template/static/css/app.33d8cdfb.css b/src/template/static/css/app.33d8cdfb.css
@@ -1,0 +1,1 @@
+.top-menu>.openBtn{background-color:#00bcd4;border-color:#00bcd4;font-size:15px}.top-menu>.openBtn:focus{outline:none;-webkit-box-shadow:none;box-shadow:none}.top-menu>.openBtn:hover{background-color:#00bcd4;border-color:#00bcd4}.top-menu>.iconBtn{margin-top:15px;background-color:#194d33;border-color:#194d33}.top-menu>.iconBtn:focus{outline:none;-webkit-box-shadow:none;box-shadow:none}.top-menu>.iconBtn:hover{background-color:#194d33;border-color:#194d33}.top-menu>.timeBtn{float:right;margin-top:20px}.top-menu>.timeBtn,.top-menu>.timeBtn:hover,.top-menu>.versionBtn{background-color:#00bcd4;border-color:#00bcd4}.top-menu>.versionBtn{float:right;margin-top:20px}.top-menu>.versionBtn:hover{background-color:#00bcd4;border-color:#00bcd4}.chart{margin-top:-35px}h5{font-size:1.64rem;margin:.82rem 0 .656rem 0}.configTable{margin-bottom:15px}.change{-webkit-box-shadow:0 0 10px 0 rgba(0,0,0,.25);box-shadow:0 0 10px 0 rgba(0,0,0,.25);margin-bottom:32px}header{height:65px;background-color:#194d33}.allTable,.wrapper{background:#fff;margin-bottom:32px;-webkit-box-shadow:0 0 10px 0 rgba(0,0,0,.55);box-shadow:0 0 10px 0 rgba(0,0,0,.55)}.wrapper{padding:16px 16px 0}.main-details{background:rgba(168,154,154,.06666666666666667)}.el-aside{min-height:100vh;background-color:#194d33;position:relative;overflow:hidden}.router-link-active{text-decoration:none}ul.el-menu{border-right:0 solid #e6e6e6}a{text-decoration:none}

diff --git a/src/reporter.py b/src/reporter.py
@@ -309,6 +309,8 @@ class TestAppender:
                     d["url"] = "N/A"
                 if "method" not in keys_list:
                     d["method"] = "N/A"
+                if "statusCode" not in keys_list:
+                    d["statusCode"] = "N/A"
                 if "responseBody" not in keys_list:
                     d["responseBody"] = "N/A"
                 if "responseHeader" not in keys_list:

diff --git a/src/examples.py b/src/examples.py
@@ -128,6 +128,7 @@ def api_run():
     # You have to add the request api details for each case:
     api_details = [
         {"method": "GET", "url": "http://www.baidu.com", "body": "{\"body\":\"ssss\"}",
+         "statusCode": "200",
          "header": "{\"header\":\"ssss\"}",
          "responseHeader": "{\"responseHeade\":\"ssss\"}",
          "responseBody": "{\"responseBody\":\"ssss\"}"}]
